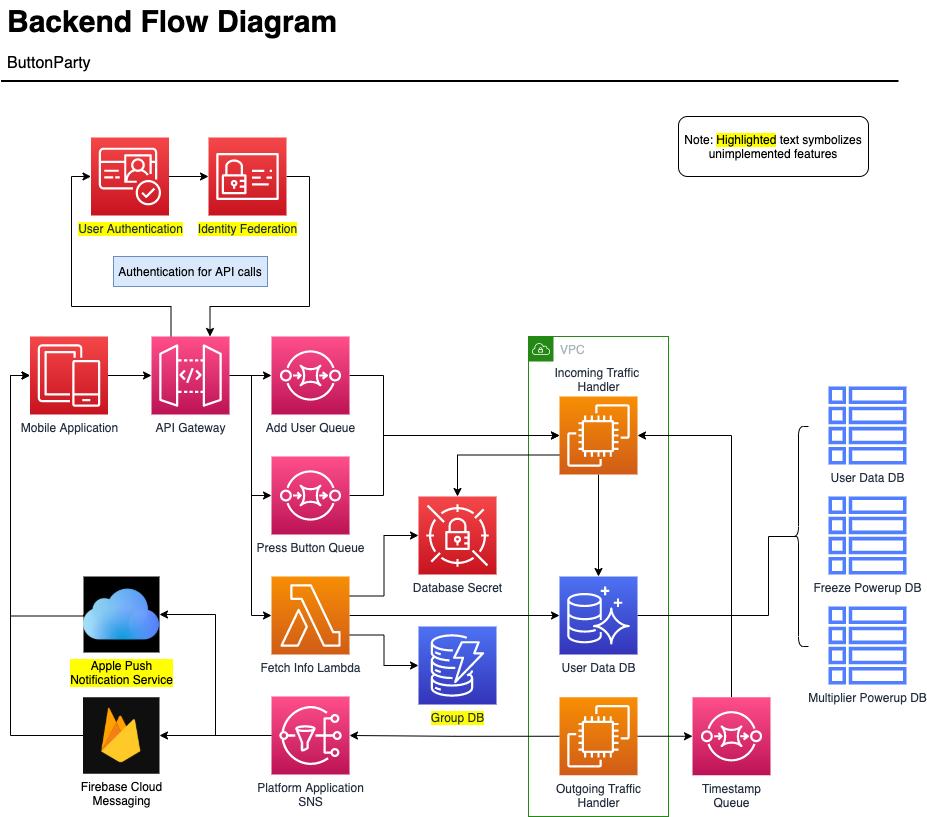
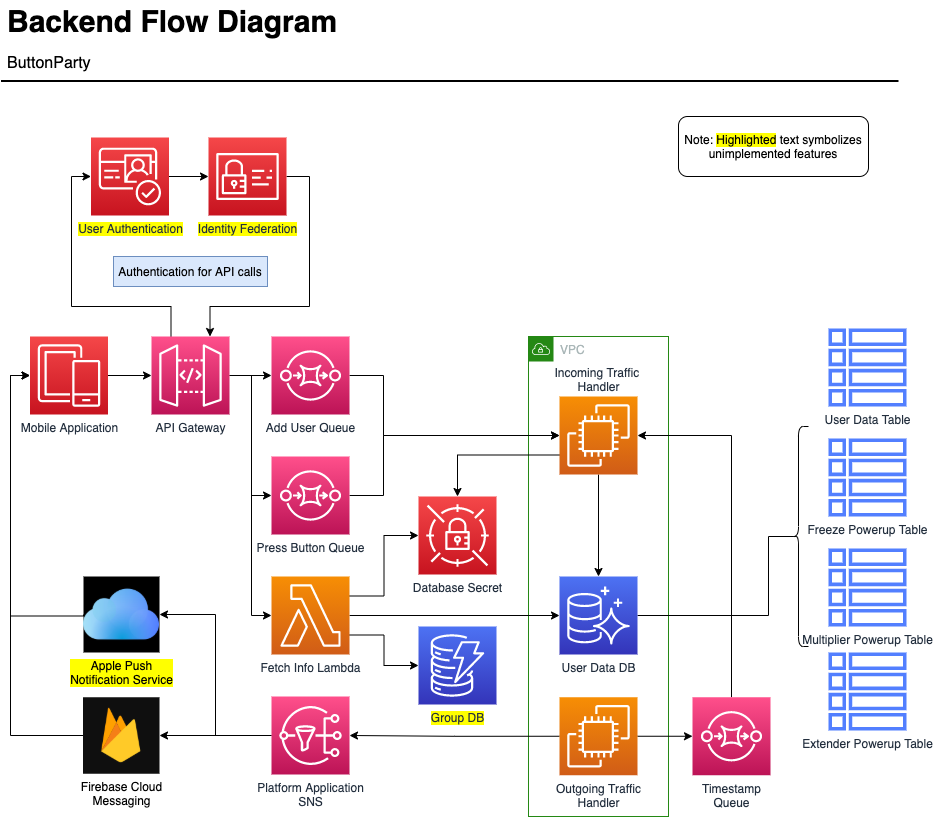
add extender docs

diff --git a/README.md b/README.md
@@ -36,6 +36,17 @@ Options:
 
 (multipliers last for 6 hours)
 
+#### Extender
+
+Players can purchase a extender to increase the amount of time they have to press the button for a certain period.
+
+Options: 
+
+| x1.5 | x2 | x3 | x5 |
+|------|----|----|----|
+
+(base time is 100 seconds)
+
 ## Stack
 ### Frontend
  - React Native
@@ -142,6 +153,20 @@ Notes:
 | robocop    |          2 | 11/20/21 9:00 PM |
 | loki       |          3 |  9/3/21 11:00 AM |
 | dumbledore |         10 |  12/6/21 4:00 PM |
+| batman     |          1 |             NULL |
+
+Notes: 
+
+ 1. Again, because `batman` has never used a powerup, his `activeUntil` property is `NULL` until he does. But all `multiplier` values default to 1.
+ 2. You can see that `loki` has a multiplier powerup that has passed. We leave this row in the database and just check the timestamp against the current time in our code.
+
+*ExtenderPowerup*
+
+| username   | multiplier | activeUntil      |
+|------------|------------|------------------|
+| robocop    |          2 | 11/20/21 9:00 PM |
+| loki       |          3 |  9/3/21 11:00 AM |
+| dumbledore |        1.5 |  12/6/21 4:00 PM |
 | batman     |          1 |             NULL |
 
 Notes: 
